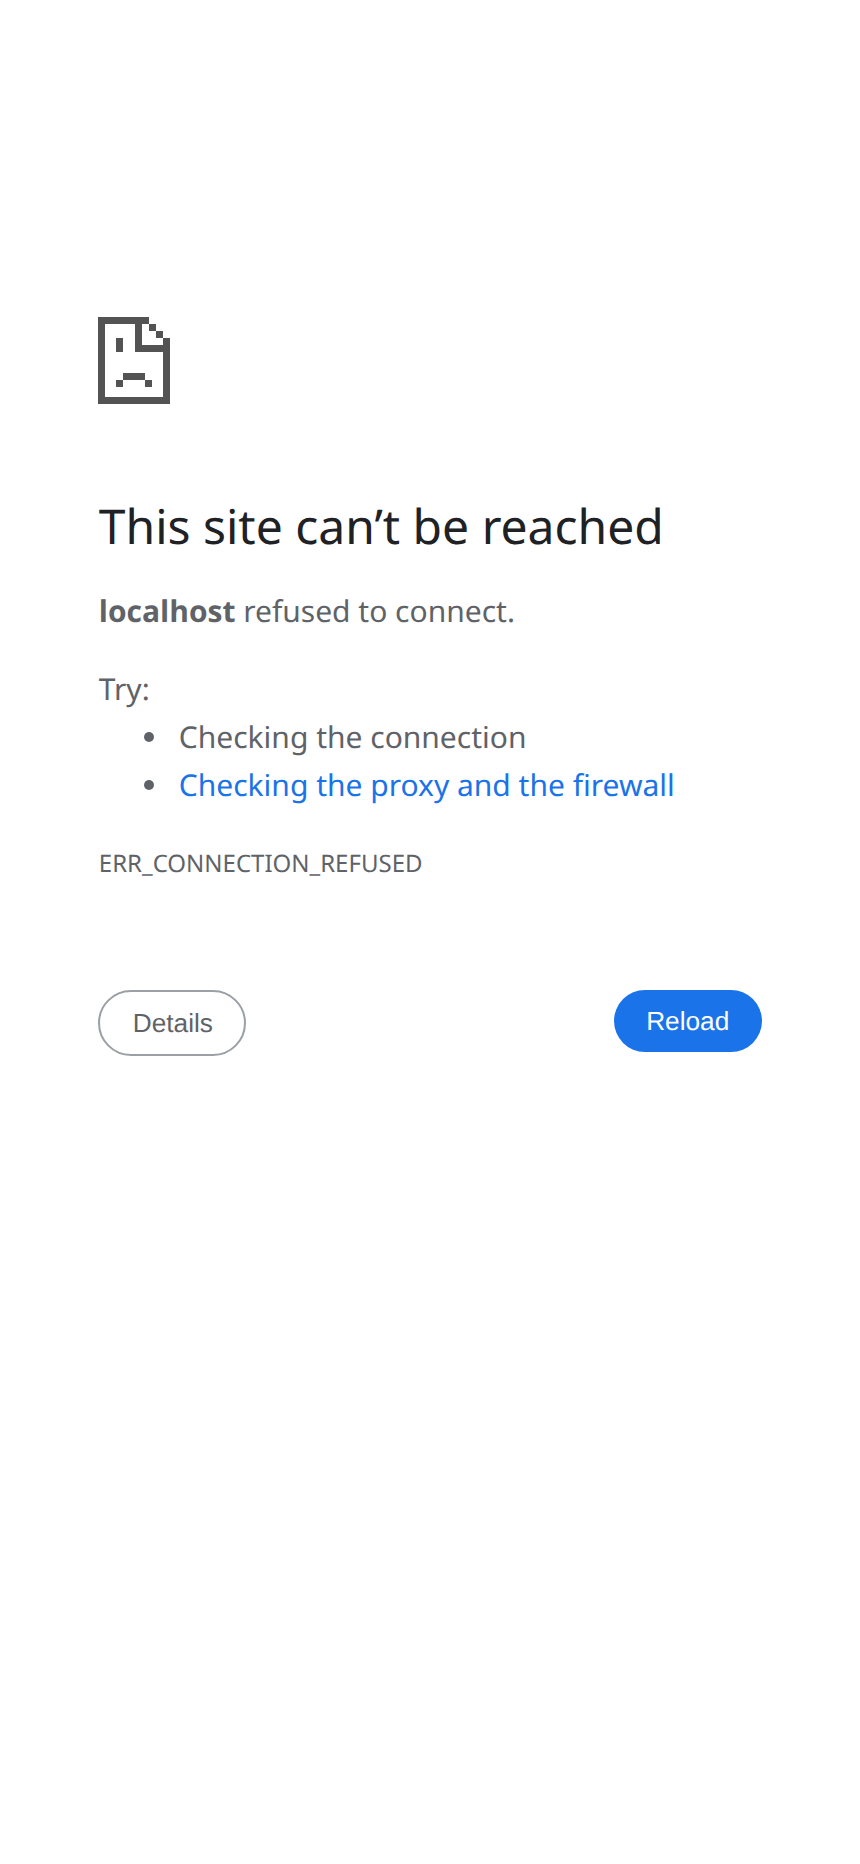
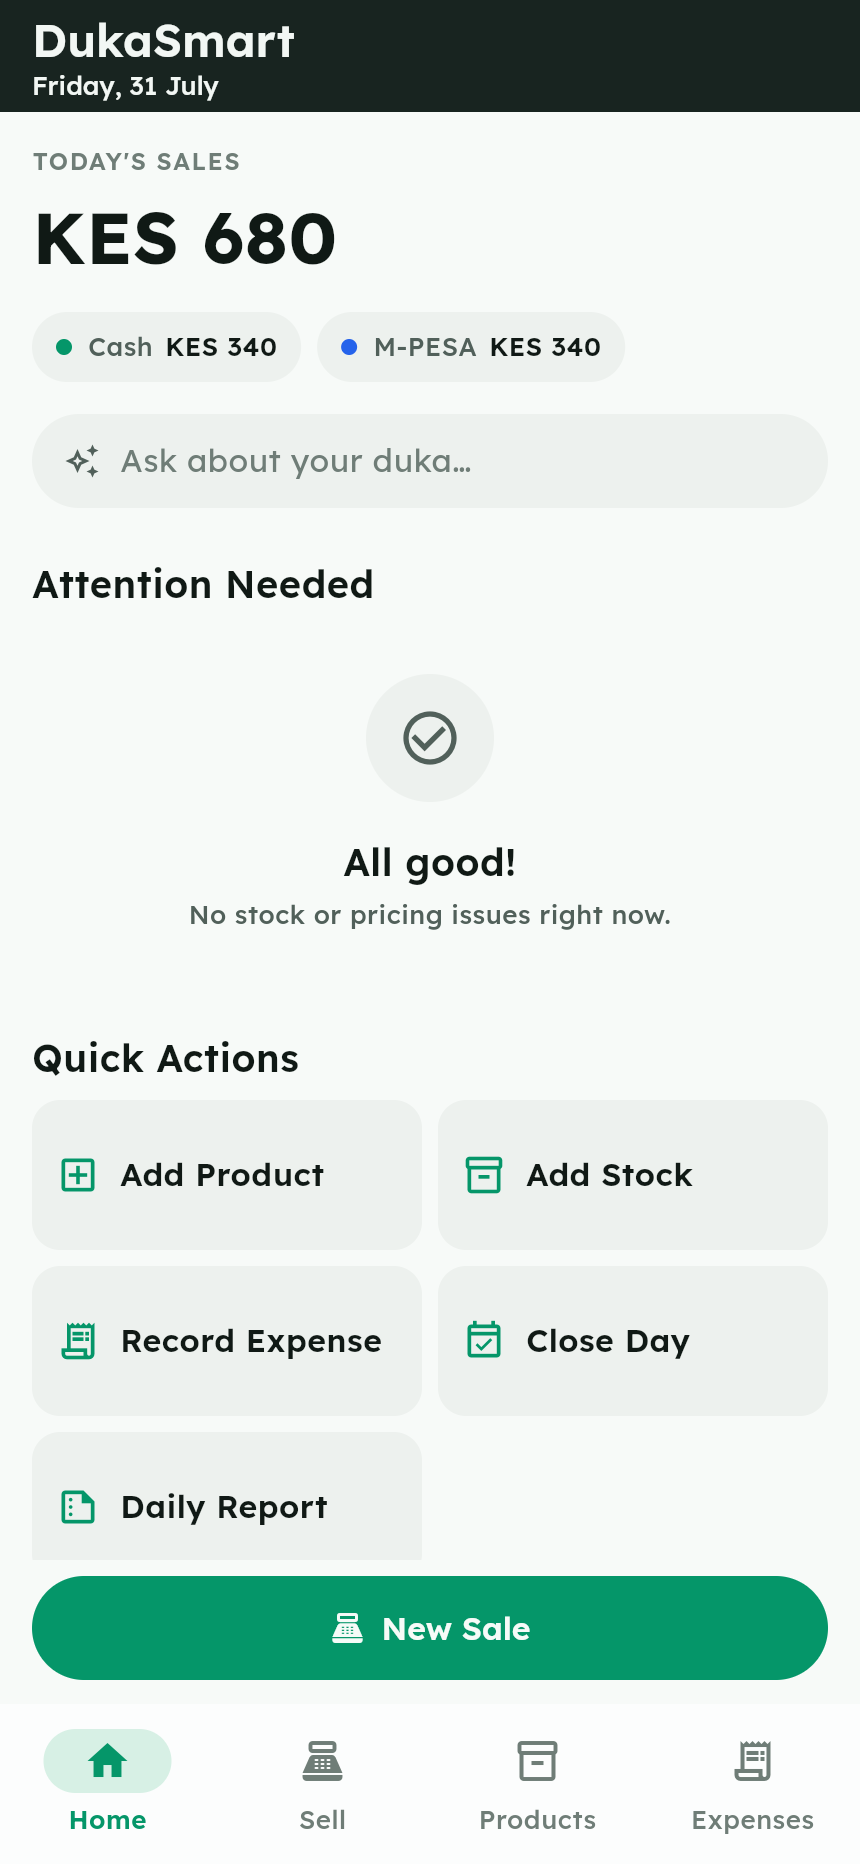
fix(docs): replace two committed screenshots that were Chrome error pages
Both docs/screenshots/15-dashboard-ai.png and 16-ask-suggestions.png shipped
in 64783a7 as Chrome's "This site can't be reached / ERR_CONNECTION_REFUSED"
page — the capture ran against a server that was no longer listening. The
remotion/public/screens/ copies were fine, so the good images are restored
from there.

Every check in place passed on the broken files. The error page is a perfect
860x1864, so `file` reported the right geometry; both bad copies were byte-
identical, so the docs/remotion sync compare passed; and the rig exited 0. The
two files were even identical to EACH OTHER, which no check looked for.

Both rigs now fail on navigation errors: Page.navigate returns errorText when
the load failed, so a dead server aborts the run instead of quietly
photographing the browser's error page. Verified — the guard throws and writes
no PNG.

The real lesson is in CAPTURE.md: geometry and folder sync are necessary
checks, not sufficient ones. Look at the pixels.

diff --git a/docs/screenshots/CAPTURE.md b/docs/screenshots/CAPTURE.md
@@ -57,7 +57,15 @@ Because Flutter renders to a canvas there are no selectors — steps are CSS
 coordinates measured off a screenshot (screenshot px ÷ 2). **If a screen's
 layout changes, the coordinates go stale silently:** the tap lands on nothing
 and the run continues. Always eyeball the output rather than trusting the exit
-code. Everything must happen in one invocation; committed data survives in the
+code.
+
+**Look at the actual pixels before committing, not just the metadata.** Both
+rigs now abort when `Page.navigate` reports an `errorText`, because a dead
+server used to be completely invisible: Chrome renders its own "This site
+can't be reached" page, the rig captures *that* at a flawless 860 × 1864, and
+`file` plus a `docs/` ↔ `remotion/` byte-compare both still pass. Two error-page
+PNGs were committed that way. Geometry and folder sync are necessary checks,
+not sufficient ones. Everything must happen in one invocation; committed data survives in the
 profile's IndexedDB, but on-screen state does not.
 
 Do not reach for Chrome's plain `--screenshot` flag instead. It needs
